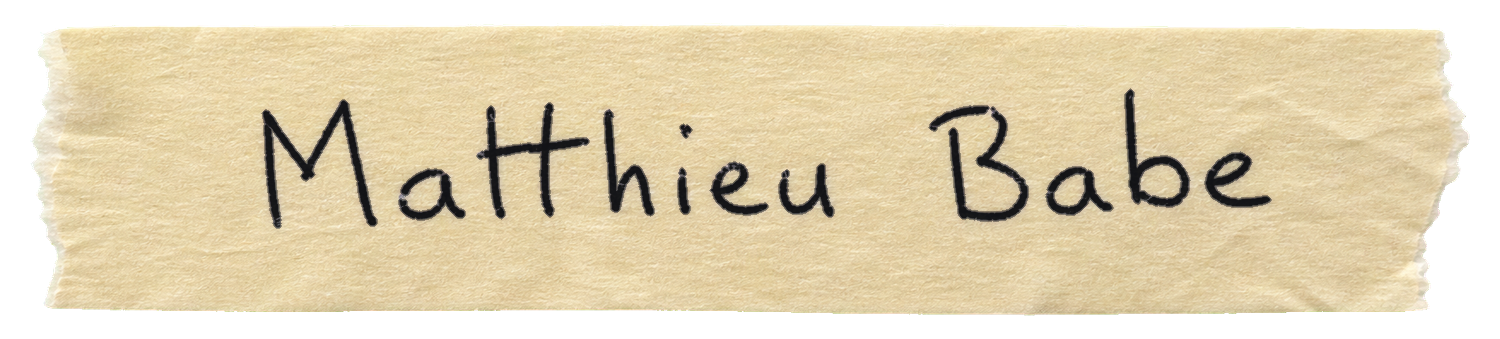
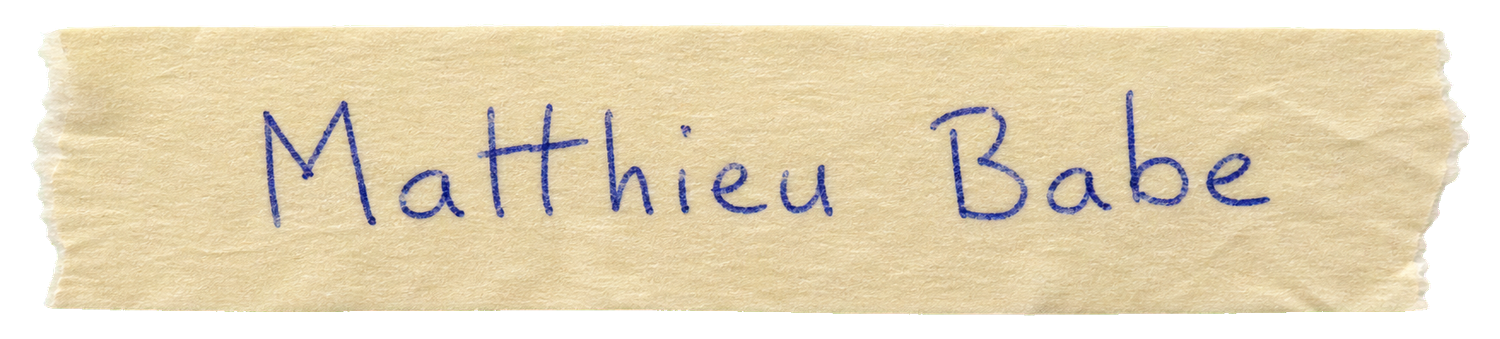
Personalize About and polish portfolio motion

Changed region(s): [[0.1533, 0.295, 0.5827, 0.6785], [0.6133, 0.2655, 0.8587, 0.6785]]

diff --git a/src/styles/site.css b/src/styles/site.css
@@ -64,10 +64,32 @@ p { margin: 0; }
   .work-link:hover::before { opacity: 1; transform: none; }
   .work-previews { display: block; position: fixed; top: 336px; left: calc(50% + 32px); width: min(484px, calc(50vw - 64px)); z-index: 2; pointer-events: none; }
   .work-previews[hidden] { display: none; }
-  .work-preview { position: absolute; inset-inline: 0; top: 0; margin: 0; opacity: 0; visibility: hidden; transform: translateY(8px) scale(.985); transition: opacity 160ms ease, transform 300ms var(--ease-out), visibility 0s 160ms; }
-  .work-preview[data-visible] { opacity: 1; visibility: visible; transform: none; transition-delay: 0s; }
-  .work-preview > img { display: block; width: 100%; height: auto; aspect-ratio: 16 / 9; object-fit: cover; object-position: center; border-radius: 12px; box-shadow: 0 10px 30px rgb(0 0 0 / .05); }
-  .work-preview figcaption { margin: 12px 8px 0; color: #8a8a8a; font-size: 14px; }
+  .work-preview {
+    --card-angle: -1.2deg;
+    position: absolute;
+    inset-inline: 0;
+    top: 0;
+    margin: 0;
+    padding: 8px;
+    background: #fff;
+    border: 1px solid #eee;
+    border-radius: 16px;
+    box-shadow: 0 12px 36px rgb(0 0 0 / .055), 0 3px 10px rgb(0 0 0 / .025);
+    opacity: 0;
+    visibility: hidden;
+    transform-origin: 50% 60%;
+    transform: translateY(10px) rotate(calc(var(--card-angle) - .5deg)) scale(.985);
+    transition: opacity 180ms ease-out, transform 420ms var(--ease-out), visibility 0s 180ms;
+  }
+  .work-preview:nth-child(even) { --card-angle: 1.2deg; }
+  .work-preview[data-visible] {
+    opacity: 1;
+    visibility: visible;
+    transform: translateY(0) rotate(var(--card-angle)) scale(1);
+    transition: opacity 280ms ease-out, transform 600ms var(--ease-out), visibility 0s;
+  }
+  .work-preview > img { display: block; width: 100%; height: auto; aspect-ratio: 16 / 9; object-fit: cover; object-position: center; border-radius: 9px; }
+  .work-preview figcaption { margin: 10px 4px 3px; color: #8a8a8a; font-size: 13px; }
 }
 .signature { padding-top: 96px; font-size: 15px; line-height: 1.65; }
 .signature.signature-about { padding-top: 48px; }
@@ -82,44 +104,6 @@ p { margin: 0; }
 .last-updated a { display: inline-block; padding-block: 8px; margin-block: -8px; text-decoration-color: #c7c7c7; }
 .last-updated a:hover { color: var(--muted); }
 .last-updated a:focus-visible { color: var(--ink); }
-.scroll-light {
-  position: fixed;
-  bottom: 0;
-  left: 0;
-  z-index: -1;
-  width: 100%;
-  height: min(30svh, 250px);
-  pointer-events: none;
-  /* Keep the light at the viewport edge; fade its top before either layer ends. */
-  -webkit-mask-image: linear-gradient(to bottom, transparent, #000 85%);
-  mask-image: linear-gradient(to bottom, transparent, #000 85%);
-}
-.scroll-light::before,
-.scroll-light::after {
-  content: "";
-  position: absolute;
-  inset: 0 -15%;
-  background-repeat: no-repeat;
-  will-change: background-position, opacity;
-}
-.scroll-light::before {
-  background-image: radial-gradient(ellipse 38% 110% at 50% 115%, rgba(138,175,255,.48), transparent 100%);
-  background-size: 130% 100%;
-  animation: light-drift-blue 6s ease-in-out infinite alternate;
-}
-.scroll-light::after {
-  background-image: radial-gradient(ellipse 35% 100% at 50% 120%, rgba(255,190,133,.42), transparent 100%);
-  background-size: 135% 100%;
-  animation: light-drift-warm 7s ease-in-out -2s infinite alternate;
-}
-@keyframes light-drift-blue {
-  from { opacity: .6; background-position: 90% 0; }
-  to { opacity: 1; background-position: 10% 0; }
-}
-@keyframes light-drift-warm {
-  from { opacity: 1; background-position: 5% 0; }
-  to { opacity: .65; background-position: 95% 0; }
-}
 .changelog-content { padding-top: 80px; }
 .back-link { display: inline-block; margin-bottom: 32px; color: var(--muted); font-size: 16px; }
 h1 { margin: 0; font-size: 32px; font-weight: 400; line-height: 1.15; letter-spacing: -.035em; }
@@ -143,7 +127,6 @@ h2 { margin: 0 0 12px; font-size: 18px; font-weight: 400; letter-spacing: -.02em
 @media (max-height: 500px) and (orientation: landscape) { :root { --top-space: 80px; } }
 @media (prefers-reduced-motion: reduce) {
   html { scroll-behavior: auto; }
-  .scroll-light::before, .scroll-light::after { animation: none; opacity: .8; will-change: auto; }
 }
 
 html:has(.changelog-sheet[open]) { overflow: hidden; }
@@ -183,25 +166,31 @@ html:has(.changelog-sheet[open]) { overflow: hidden; }
 }
 
 /* One-shot home entrance; the tape itself is always visible and stationary. */
-html[data-entrance="pending"] .is-home :is(.intro-line, .portfolio-nav, .work-list, .about-copy, .signature, .scroll-light) { opacity: 0; }
-html[data-entrance="ready"] .is-home :is(.intro-line, .portfolio-nav, .work-list, .about-copy, .signature) {
-  animation: home-enter 1000ms var(--ease-out) both;
+html[data-entrance="pending"] .is-home :is(.intro-line, .portfolio-nav, .work-list > li, .about-copy > p, .signature) { opacity: 0; }
+html[data-entrance="ready"] .is-home :is(.intro-line, .portfolio-nav, .work-list > li, .about-copy > p, .signature) {
+  animation: home-fade 700ms ease-out both, home-rise 800ms var(--ease-out) both;
 }
-html[data-entrance="ready"] .is-home .intro-line { --rise: 6px; }
-html[data-entrance="ready"] .is-home .portfolio-nav { --rise: 4px; animation-delay: 120ms; animation-duration: 950ms; }
-html[data-entrance="ready"] .is-home :is(.work-list, .about-copy) { --rise: 4px; animation-delay: 230ms; animation-duration: 900ms; }
-html[data-entrance="ready"] .is-home .signature { --rise: 3px; animation-delay: 330ms; animation-duration: 850ms; }
-html[data-entrance="ready"] .is-home .scroll-light { animation: home-fade 1200ms var(--ease-out) 200ms both; }
-html[data-entrance] .is-home :is(.intro-line, .portfolio-nav, .work-list, .signature):focus-within { opacity: 1; transform: none; animation: none; }
-@keyframes home-enter { from { opacity: 0; transform: translateY(var(--rise, 6px)); } to { opacity: 1; transform: translateY(0); } }
+html[data-entrance="ready"] .is-home .intro-line { --rise: 8px; }
+html[data-entrance="ready"] .is-home .portfolio-nav { --rise: 4px; animation-delay: 80ms; }
+html[data-entrance="ready"] .is-home :is(.work-list > li, .about-copy > p) { --rise: 8px; animation-delay: 140ms; }
+html[data-entrance="ready"] .is-home :is(.work-list > li, .about-copy > p):nth-child(2) { animation-delay: 220ms; }
+html[data-entrance="ready"] .is-home .about-copy > p:nth-child(3) { animation-delay: 280ms; }
+html[data-entrance="ready"] .is-home .about-copy > p:nth-child(n+4) { animation-delay: 330ms; }
+html[data-entrance="ready"] .is-home .signature { --rise: 4px; animation-delay: 380ms; }
+html[data-entrance] .is-home :is(.intro-line, .portfolio-nav, .work-list > li, .signature):focus-within { opacity: 1; transform: none; animation: none; }
+@keyframes home-rise { from { transform: translateY(var(--rise, 8px)); } to { transform: translateY(0); } }
 @keyframes home-fade { from { opacity: 0; } to { opacity: 1; } }
-@keyframes portfolio-in { from { opacity: 0; transform: translateY(6px); } to { opacity: 1; transform: translateY(0); } }
+@keyframes portfolio-in { from { opacity: 0; transform: translateY(8px); } to { opacity: 1; transform: translateY(0); } }
 @keyframes portfolio-out { from { opacity: 1; } to { opacity: 0; } }
+::view-transition { pointer-events: none; }
+::view-transition-group(portfolio-panel) { animation-duration: 0s; }
 @media (prefers-reduced-motion: reduce) {
-  html[data-entrance="pending"] .is-home :is(.intro-line, .portfolio-nav, .work-list, .about-copy, .signature, .scroll-light) { opacity: 1; }
-  html[data-entrance="ready"] .is-home :is(.intro-line, .portfolio-nav, .work-list, .about-copy, .signature, .scroll-light) {
+  html[data-entrance="pending"] .is-home :is(.intro-line, .portfolio-nav, .work-list > li, .about-copy > p, .signature) { opacity: 1; }
+  html[data-entrance="ready"] .is-home :is(.intro-line, .portfolio-nav, .work-list > li, .about-copy > p, .signature) {
     animation: home-fade 150ms ease both;
     transform: none;
   }
-  .work-link::before, .work-preview { transition: none; transform: none; }
+  .work-link::before { transition: none; transform: none; }
+  .work-preview, .work-preview[data-visible] { transform: rotate(var(--card-angle)); transition: opacity 140ms ease, visibility 0s 140ms; }
+  .work-preview[data-visible] { transition-delay: 0s; }
 }

diff --git a/src/data/site.ts b/src/data/site.ts
@@ -5,10 +5,9 @@ export const site = {
   intro: "Design leader",
   company: { name: "Datadog", href: "https://www.datadoghq.com/product/security-platform/" },
   about: [
-    "I lead design for Security at Datadog, turning complex problems into clear products.",
-    "I care about thoughtful details and teams where people have the space to do their best work.",
-    "I think through making: sketches on paper, rough prototypes, and ideas you can actually try.",
-    "AI is changing how we build. I’m interested in the intention and care we bring to the work."
+    "I’m Matthieu, currently in Paris, leading design for Security at Datadog.",
+    "I take optimism quite seriously. I like curious people, good ideas, and the energy of making things together. Good ideas tend to start with a “what if?”",
+    "I care about the details, the people, and making room for joy along the way."
   ],
   colophon: "I try to update this space regularly with new experiments and things I’m working on.",
   links: [
@@ -25,7 +24,7 @@ export const work = [
     title: "AI Guard",
     detail: "Datadog · 2026",
     href: "https://www.datadoghq.com/products/security/ai-guard/",
-    preview: { image: "/images/work/ai-guard.webp", width: 1200, height: 675, caption: "AI Guard · Datadog" }
+    preview: { image: "/images/work/ai-guard-signals.webp", width: 1600, height: 900, caption: "AI Guard · Datadog" }
   },
   {
     id: "the-care-era",
@@ -45,6 +44,15 @@ type ChangelogEntry = {
 };
 
 export const changelog: ChangelogEntry[] = [
+  {
+    date: "2026-11-15T03:15:32Z",
+    title: "More personality",
+    changes: [
+      "Paris, optimism and joy.",
+      "Blue tape and new previews.",
+      "Soft motion, no footer glow."
+    ]
+  },
   {
     date: "2026-11-15T02:29:00Z",
     title: "A little more space",

diff --git a/src/scripts/work-previews.ts b/src/scripts/work-previews.ts
@@ -21,9 +21,9 @@ function initWorkPreviews() {
     const active = desktop.matches ? hovered || focused : undefined;
     cards.forEach(card => card.toggleAttribute("data-visible", card.dataset.previewCard === active));
     if (active) {
-      const top = list.getBoundingClientRect().top;
-      const height = cards.find(card => card.dataset.previewCard === active)?.getBoundingClientRect().height || 0;
-      previews.style.top = `${Math.max(24, Math.min(top, innerHeight - height - 24))}px`;
+      const height = cards.find(card => card.dataset.previewCard === active)?.offsetHeight || 0;
+      const top = (innerHeight - height) / 2;
+      previews.style.top = `${Math.max(32, Math.min(top, innerHeight - height - 32))}px`;
     }
   };
   list.querySelectorAll<HTMLAnchorElement>("[data-preview]").forEach(link => {

diff --git a/README.md b/README.md
@@ -19,7 +19,8 @@ npm run build
 - Changelog et liens sociaux : dans About. La ligne « Last updated » ouvre une carte modale avec fermeture par bouton, Échap ou clic extérieur. La route `/changelog/` reste disponible en accès direct et sans JavaScript.
 - Les aperçus de Work apparaissent au survol ou au focus sur ordinateur. Le visuel AI Guard provient de sa [page produit officielle](https://www.datadoghq.com/products/security/ai-guard/) ; celui de [The care era](https://medium.com/@MatthieuBabe/the-care-era-7342fbb5f832) reprend l’image de l’article, identifiée dans le flux RSS public de Matthieu.
 - Les transitions Astro conservent le scotch entre les pages ; les animations respectent la préférence de mouvement réduit.
-- Mise en page, fond blanc et lumière au bord de l’écran : `src/layouts/SiteLayout.astro` et `src/styles/site.css`.
+- Mise en page et fond blanc : `src/layouts/SiteLayout.astro` et `src/styles/site.css`.
+- Scotch : version originale à l’encre bleue, conservée dans `scripts/assets/name-tape-ai-source.png` et générée par `npm run generate:tape`.
 
 ## Déploiement Vercel
 
